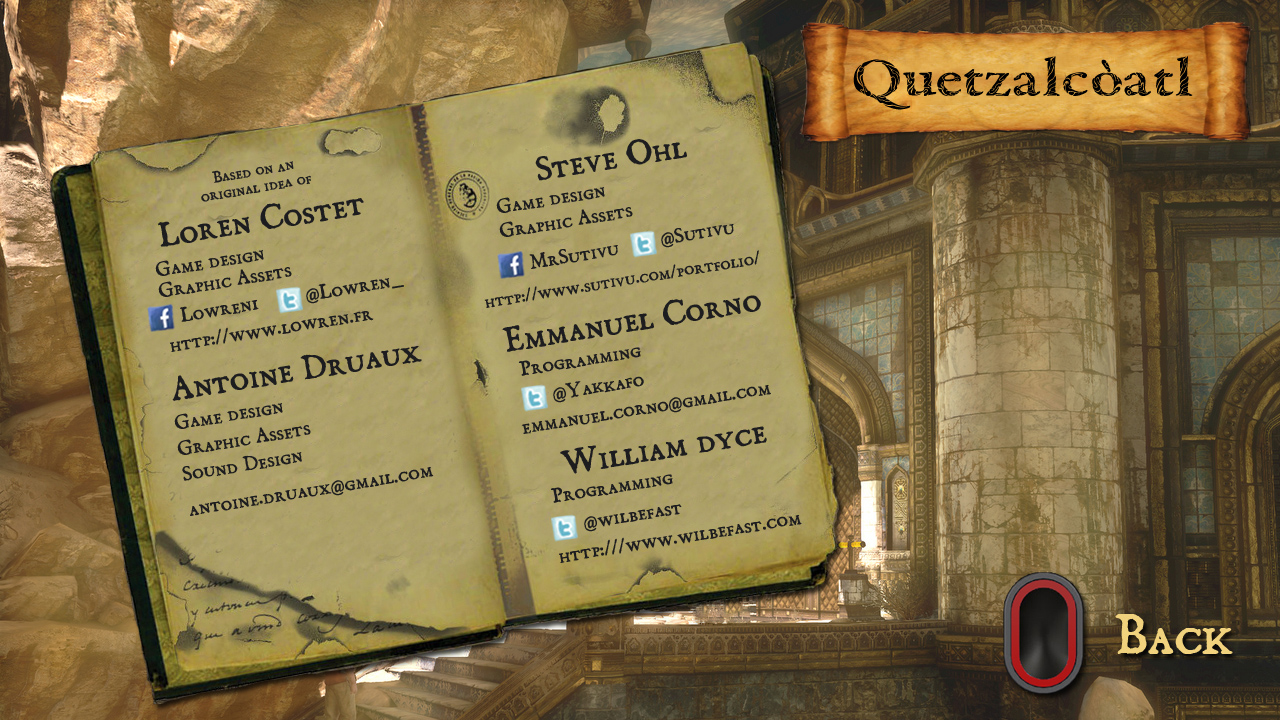
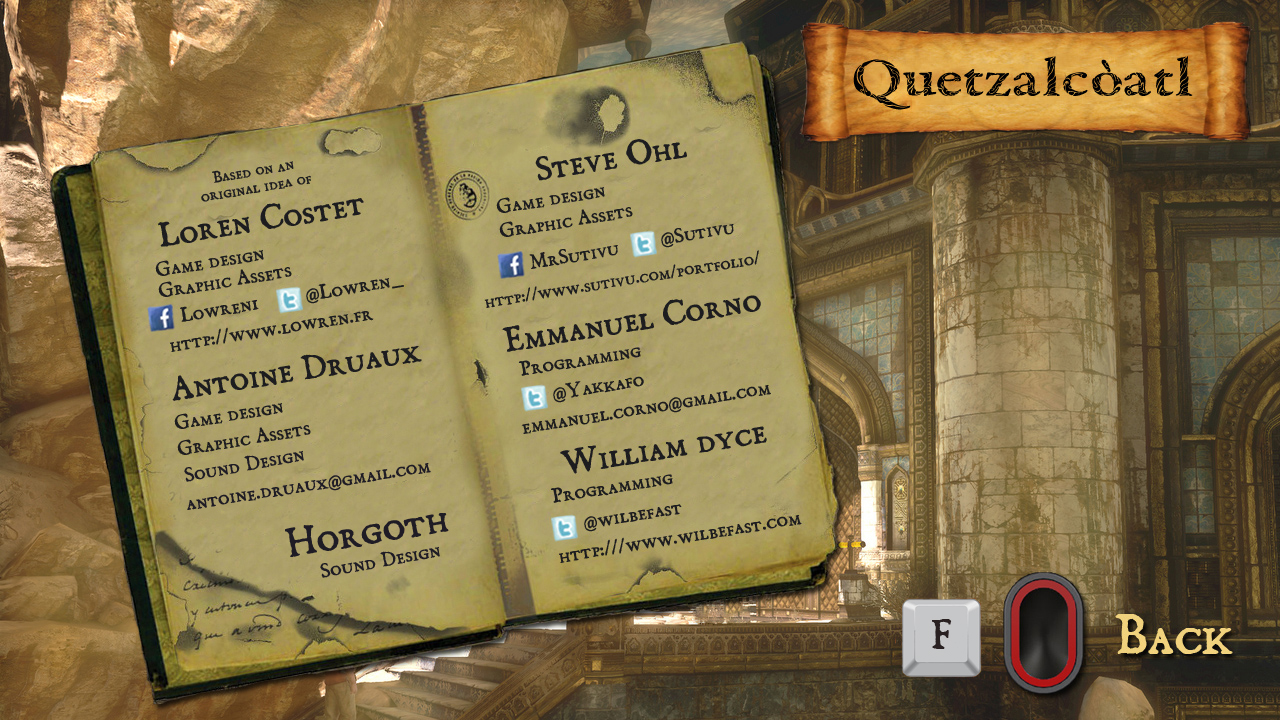
loading screen

Changed region(s): [[0.125, 0.6111, 0.3438, 0.7333], [0.6875, 0.825, 0.7812, 0.9472], [0.2188, 0.7028, 0.3438, 0.7944]]

diff --git a/src/resources/ResourceManager.java b/src/resources/ResourceManager.java
@@ -18,11 +18,12 @@ public class ResourceManager
 	public static final String RESDIR = "data/";
 	public static final String PNG = ".png";
 	public static final String JPG = ".jpg";
-	// title
+	// menu
 	private static final String CREDITS = "menu_credits";
 	private static final String GAMEOVER = "menu_lose";
 	private static final String HOWTO = "menu_howto";
 	private static final String TITLE = "menu_title";
+	private static final String LOADING = "menu_loading";
 	
 	// game
 	private static final String WHEEL_BACK = "wheel_back";
@@ -51,6 +52,7 @@ public class ResourceManager
     }
 
     /// ATTRIBUTES
+    private boolean loaded = false;
     private HashMap<String, Animation> animations 
     					= new HashMap<String, Animation>();
     private HashMap<String, Image> images 
@@ -63,6 +65,16 @@ public class ResourceManager
     // creation
     private ResourceManager()
     {
+    	// Load the loading image to display while loading ;)
+    	addImage(LOADING, JPG);
+    }
+    
+    public void load()
+    {
+    	if(loaded)
+    		return;
+    	loaded = true;
+    	
 		// Images
     	// menu
     	addImage(TITLE, JPG);

diff --git a/src/navigation/Loading.java b/src/navigation/Loading.java
@@ -1,0 +1,44 @@
+package navigation;
+
+import org.newdawn.slick.Graphics;
+import org.newdawn.slick.Image;
+
+import resources.ResourceManager;
+import system.ColourCode;
+import system.ControlManager;
+
+import utility.IDynamic;
+import utility.IVisible;
+
+public class Loading extends Scene
+{
+	/// ATTRIBUTES
+	Image background;
+	
+	/// METHODS
+	public Loading()
+	{
+		background = ResourceManager.getInstance().getImage("menu_loading"); 
+	}
+
+	@Override
+	public void draw(Graphics g)
+	{
+		background.draw(0, 0, size.x, size.y);
+		
+	}
+
+	@Override
+	public Scene getNextScene()
+	{
+		return new Title();
+	}
+
+	@Override
+	public Rtn update()
+	{
+		ResourceManager.getInstance().load();
+		return IDynamic.Rtn.CHANGE_SCENE;
+	}
+
+}

diff --git a/src/system/Main.java b/src/system/Main.java
@@ -1,17 +1,14 @@
 package system;
 
-import java.awt.Font;
-import java.awt.GraphicsEnvironment;
-
 import org.newdawn.slick.AppGameContainer;
 import org.newdawn.slick.SlickException;
 
 abstract class Main
 {
 	/// CONSTANTS
-	private static final int DESIRED_W = 1024; //1280;
-	private static final int DESIRED_H = 768; //800;
-	private static final boolean USE_FULLSCREEN = false;
+	private static final int DESIRED_W = 1280;
+	private static final int DESIRED_H = 800;
+	private static final boolean USE_FULLSCREEN = true;
 	
 	/// FUNCTIONS
 	public static void main(String[] args)

diff --git a/src/system/Game.java b/src/system/Game.java
@@ -2,6 +2,7 @@ package system;
 
 import math.FVect;
 import math.IVect;
+import navigation.Loading;
 import navigation.Scene;
 import navigation.Title;
 
@@ -47,7 +48,7 @@ public class Game extends BasicGame
 		// Get the true size of the window (may not be what was requested)
 		size = new IVect(container.getWidth(), container.getHeight());
 		Scene.init(size.FVect());
-		current_scene = new Title();	
+		current_scene = new Loading();	
 	}
 
 	@Override
